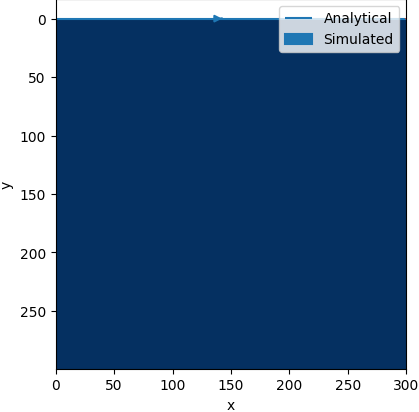
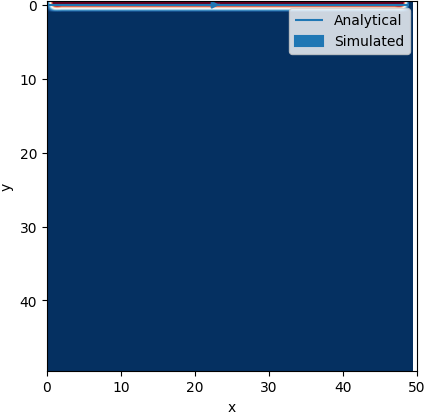
Remove C_alt and stuff

diff --git a/lb/boundaries.py b/lb/boundaries.py
@@ -1,7 +1,7 @@
 from abc import abstractmethod, ABC
 import numpy as np
 import lb
-from lb.vars import C_ALT, W
+from lb.vars import C, W
 
 class Boundary(ABC):
     def __init__(self, placement):
@@ -58,33 +58,21 @@ class RigidWall(Boundary):
     
 
 
-class MovingWall(Boundary):
+class TopMovingWall(Boundary):
     def __init__(self, placement, velocity, cs=1/np.sqrt(3)):
-        self.velocity = velocity
-        self.cs = cs
-        super().__init__(placement)
-    
-    def _calculate_wall_density(self, f):
-        return lb.calculate_density(f[:, :, 0])
-
-    def _update_f(self, f, value):
-        if (self.placement == 'top'):
-            f[self.input_channels, :, 0] = value
-        elif (self.placement == 'bottom'):
-            f[self.input_channels, :, -1] = value
-        elif (self.placement == 'left'):
-            f[self.input_channels, 0, :] = value
-        elif (self.placement == 'right'):
-            f[self.input_channels, -1, :] = value
-        else:
+        #only horizontal implementation
+        if (placement == 'bottom' or placement == 'left' or placement == 'right'):
             raise ValueError("Invalid placement: {}".format(self.placement))
-
+        super().__init__(placement)
+        self.velocity = [velocity, 0.0]
+        self.cs = cs
+    
     def after(self, f):
-        density = self._calculate_wall_density(f)
-        multiplier = 2 * (1/self.cs) ** 2
-        momentum = multiplier * (C_ALT @ self.velocity) * (W * density[: , None])
+        rho = lb.calculate_density(f[:, :, 0])
+        factor = 2 * (1/self.cs) ** 2
+        momentum = factor * (C @ self.velocity) * (W * rho[:, None])
         momentum = momentum[:, self.output_channels]
-        self._update_f(f, (self.f_cache.T[:, self.output_channels] - momentum).T)
+        f[self.input_channels, :, 0] = (self.f_cache[self.output_channels] - momentum.T)
 
 class PortalWall(Boundary):
     def __init__(self, placement, n, pressure, cs=1/np.sqrt(3)):

diff --git a/sliding_lid.py b/sliding_lid.py
@@ -1,16 +1,17 @@
 import numpy as np
-from lb import LatticeBoltzmann, RigidWall, MovingWall
+from lb import LatticeBoltzmann, RigidWall, TopMovingWall
 from plot import Plotter4
 
-def sliding_lid_sim(nx: int = 300, ny: int = 300, omega: float = 0.3, steps: int = 20001):
+def sliding_lid_sim(nx: int = 50, ny: int = 50, omega: float = 0.3, steps: int = 200001):
     
     rho = np.ones((nx, ny))
     velocities = np.zeros((2, nx, ny))
-    wall_velocity = np.array([0.0, 0.1])
-    boundaries = [RigidWall("bottom"), RigidWall("left"), RigidWall("right"), MovingWall("top", wall_velocity)]
+    wall_velocity = 0.05
+    boundaries = [RigidWall("bottom"), TopMovingWall("top", wall_velocity), RigidWall("left"), RigidWall("right")]
 
-    #omega = 1 / (0.5 + ((wall_velocity[1] * nx) / 1000) / (1/3))
-    #assert(omega < 1.7)
+    #omega = 1 / (0.5 + ((wall_velocity * nx) / 1000) / (1/3))
+    omega = 1.0
+    assert(omega <= 1.7)
     
     latticeBoltzmann = LatticeBoltzmann(rho, velocities, omega, boundaries)
     plotter = Plotter4()
@@ -19,7 +20,7 @@ def sliding_lid_sim(nx: int = 300, ny: int = 300, omega: float = 0.3, steps: int
         latticeBoltzmann.tick()
         
         # plot sliding lid every 1000 steps 
-        if((step % 1000 == 0)):
+        if((step % 50000 == 0)):
             plotter.plot_sliding_lid(latticeBoltzmann.velocities, step, nx, ny)
             print("Step: {}".format(step))
 

diff --git a/sliding_lid_parallel.py b/sliding_lid_parallel.py
@@ -1,5 +1,5 @@
 import numpy as np
-from lb import RigidWall, MovingWall, LatticeBoltzmannParallel, WorkManager
+from lb import RigidWall, TopMovingWall, LatticeBoltzmannParallel, WorkManager
 from plot import Plotter4
 
 def sliding_lid_sim(nx: int = 50, ny: int = 50, omega: float = 0.3, steps: int = 20001):
@@ -7,7 +7,7 @@ def sliding_lid_sim(nx: int = 50, ny: int = 50, omega: float = 0.3, steps: int =
     rho = np.ones((nx, ny))
     velocities = np.zeros((2, nx, ny))
     wall_velocity = np.array([0.0, 0.1])
-    boundaries = [MovingWall("top", wall_velocity, rho), RigidWall("bottom"), RigidWall("left"), RigidWall("right")]
+    boundaries = [TopMovingWall("top", wall_velocity, rho), RigidWall("bottom"), RigidWall("left"), RigidWall("right")]
 
     #omega = 1 / (0.5 + ((wall_velocity[1] * nx) / 1000) / (1/3))
     #assert(omega < 1.7)

diff --git a/couette_flow.py b/couette_flow.py
@@ -1,13 +1,13 @@
 import numpy as np
-from lb import LatticeBoltzmann, RigidWall, MovingWall
+from lb import LatticeBoltzmann, RigidWall, TopMovingWall
 from plot import Plotter2
 
 def couette_flow_sim(nx: int = 50, ny: int = 50, omega: float = 0.3, steps: int = 3001):
     
     rho = np.ones((nx, ny))
     velocities = np.zeros((2, nx, ny))
-    wall_velocity = np.array([0.0, 0.1])
-    boundaries = [MovingWall("top", wall_velocity), RigidWall("bottom")]
+    wall_velocity = 0.1
+    boundaries = [TopMovingWall("top", wall_velocity), RigidWall("bottom")]
 
     latticeBoltzmann = LatticeBoltzmann(rho, velocities, omega, boundaries)
     plotter = Plotter2()

diff --git a/lb/vars.py b/lb/vars.py
@@ -7,15 +7,3 @@ W = np.array([4/9, 1/9, 1/9, 1/9, 1/9, 1/36, 1/36, 1/36, 1/36])
 
 C.setflags(write=False)
 W.setflags(write=False)
-
-C_ALT = np.ascontiguousarray(
-            np.array([[0, 0, 1, 0, -1, 1, 1, -1, -1], # y
-                  [0, 1, 0, -1, 0, 1, -1, -1, 1]]).T) # x
-
-
-W_ALT = np.ascontiguousarray(
-            np.array([4/9, 1/9, 1/9, 1/9, 1/9, 1/36, 1/36, 1/36, 1/36]).T,
-            dtype=np.float32)
-
-C_ALT.setflags(write=False)
-W_ALT.setflags(write=False)

diff --git a/plot.py b/plot.py
@@ -78,7 +78,7 @@ class Plotter2:
         analytical = (ny-1 - y) / (ny-1) * wall_velocity[1]
 
         self.ax.cla()
-        self.ax.set_xlim([-0.01, wall_velocity[1]])
+        self.ax.set_xlim([-0.01, wall_velocity])
         self.ax.axhline(0.0, color='red')
         self.ax.axhline(ny-1, color='black')
         self.ax.plot(analytical, y, color=COLORS[ANALYTIC])
